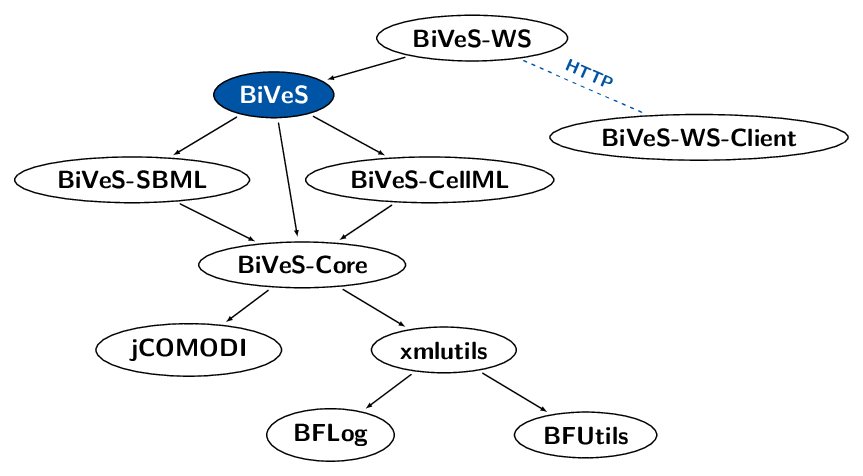
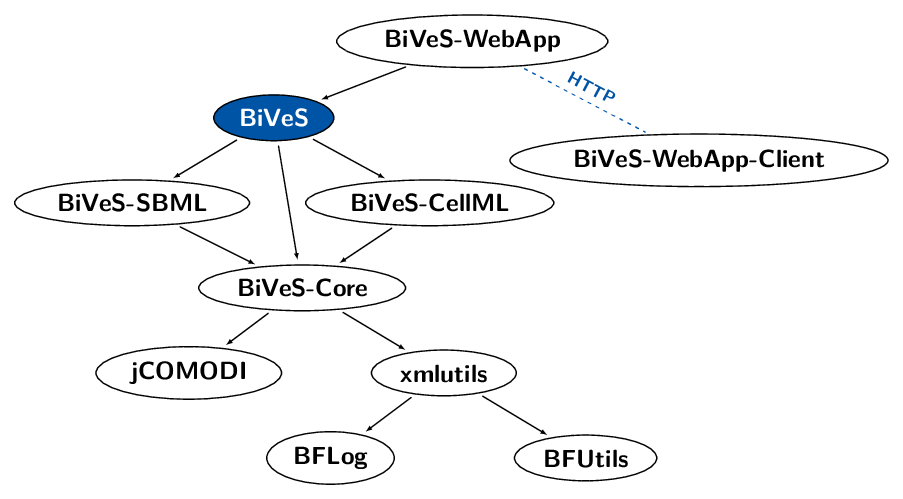
listed the modules

diff --git a/art/dependency-graph.tex b/art/dependency-graph.tex
@@ -79,8 +79,8 @@
 
 
 
-\node[module,idid] (ws) at (7,2) {BiVeS-WS};
-\node[module,idid] (wsc) at (15,-1.5) {BiVeS-WS-Client};
+\node[module,idid] (ws) at (7,2.7) {BiVeS-WebApp};
+\node[module,idid] (wsc) at (15,-1.5) {BiVeS-WebApp-Client};
 
 \draw[dependency] (bives) -- (cellml);
 \draw[dependency] (bives) -- (sbml);

diff --git a/README.md b/README.md
@@ -7,16 +7,25 @@ The Algorithm implemented in BiVeS was published as
 > [An algorithm to detect and communicate the differences in computational models describing biological systems.](https://doi.org/10.1093/bioinformatics/btv484)
 > *Bioinformatics* 32 (4): 563-570;
 
+## BiVeS consists of several modules
 
 ![bives modules](art/dependency-graph.png)
 
 BiVeS itself consists of a number of modules:
 
+* [xmlutils](https://github.com/binfalse/xmlutils) is a library for advanced XML handling
+* [jCOMODI](https://github.com/binfalse/jCOMODI/) provides programmatic access to the [COMODI ontology](http://purl.uni-rostock.de/comodi/)
+* [BiVeS-Core](https://github.com/binfalse/BiVeS-Core) is the core library for comparison of computational models
+* [BiVeS-SBML](https://github.com/binfalse/BiVeS-SBML/) is a module providing special strategies for models encoded in SBML
+* [BiVeS-CellML](https://github.com/binfalse/BiVeS-CellML) is a module providing special strategies for models encoded in CellML
+* [BiVeS](https://github.com/binfalse/BiVeS) ties all modules together and provides command line access
+* [BiVeS-WebApp](https://github.com/binfalse/BiVeS-WebApp) is a web interface to access BiVeS through the network
+* [BiVeS-WebApp-Client](https://github.com/binfalse/BiVeS-WebApp-Client) provides a Java library for comparing models using the BiVeS-WebApp
 
 
 
 
-## Usage
+## Usage of BiVeS
 
 BiVeS currently supports different flavours of XML documents.
 It supports special comparison strategies for computational models encoded in SBML (though [BiVeS-SBML](https://github.com/binfalse/BiVeS-SBML)) or CellML (through [BiVeS-CellML](https://github.com/binfalse/BiVeS-CellML)).
